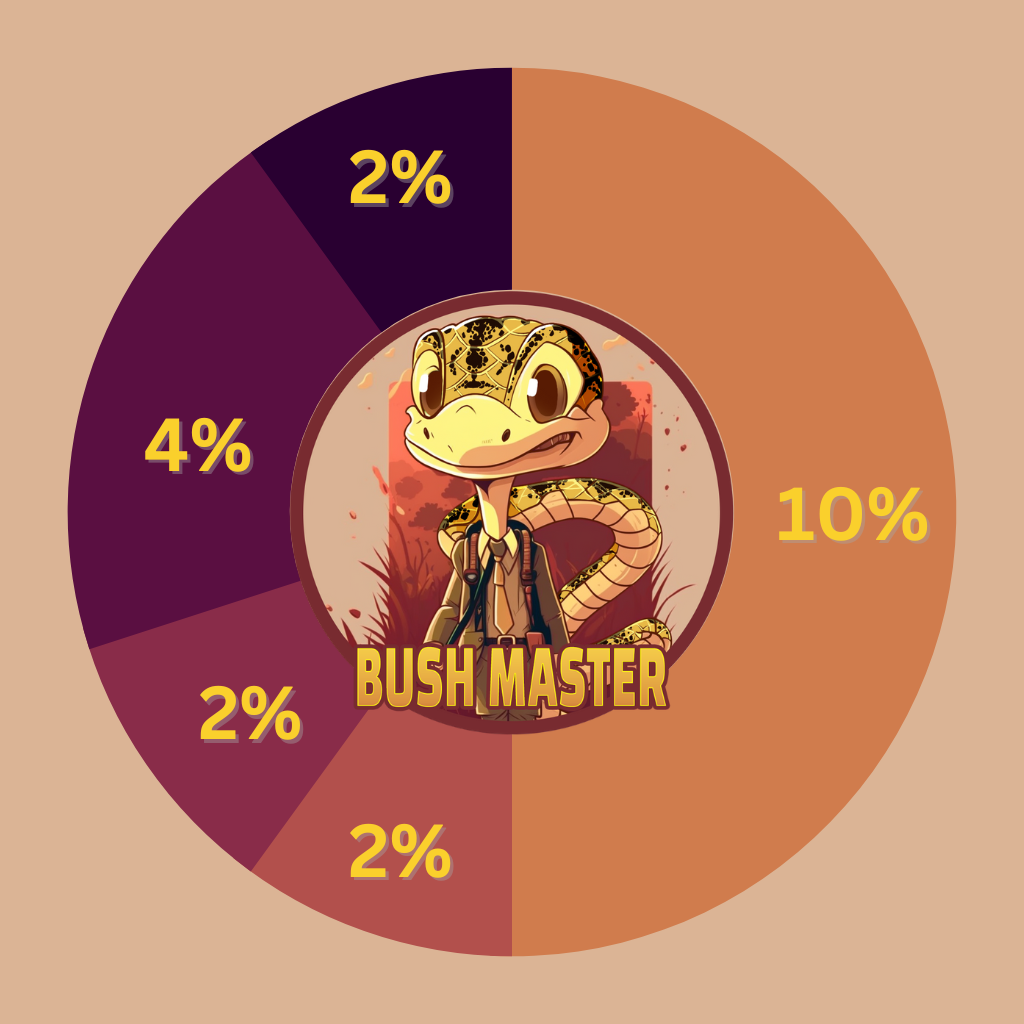
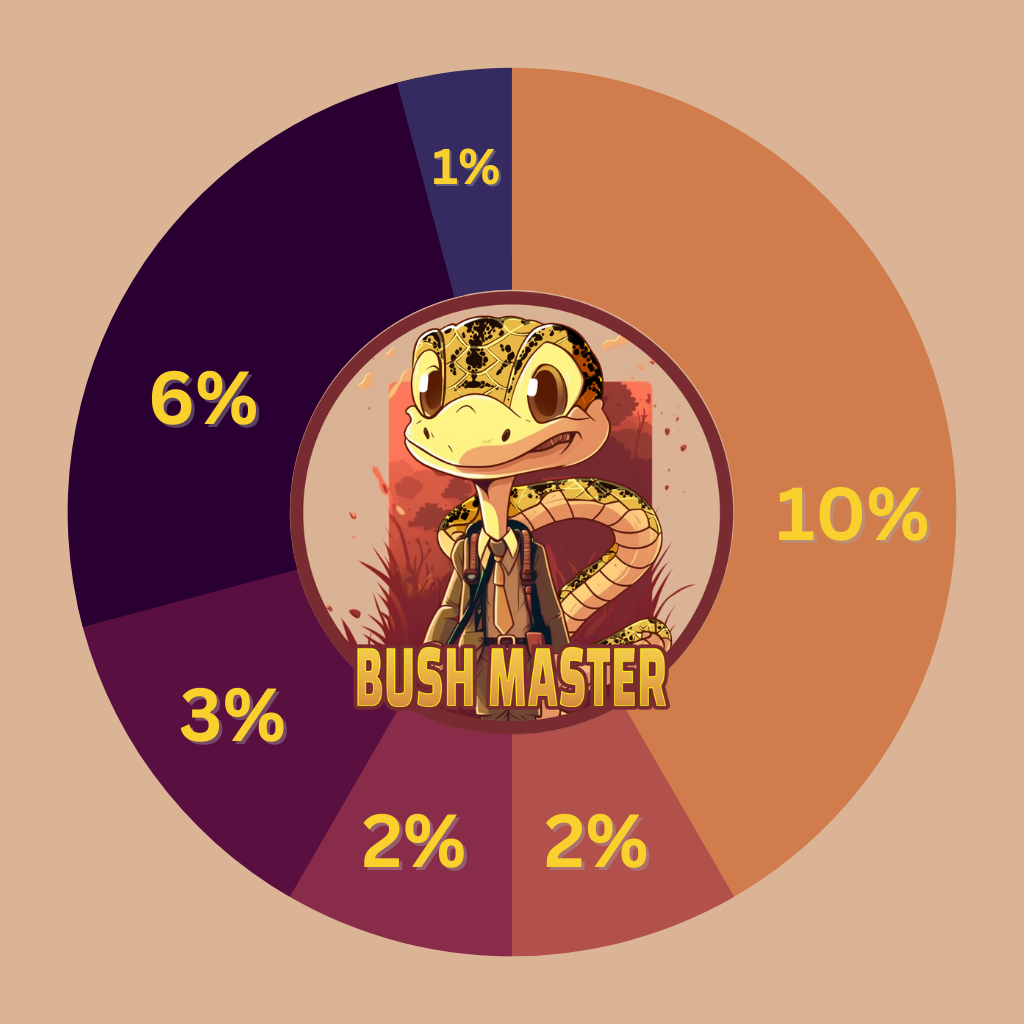
fix tokenomics

Changed region(s): [[0.0625, 0.1562, 0.7188, 0.9375], [0.3438, 0.0625, 0.5, 0.3125]]

diff --git a/index.html b/index.html
@@ -1175,8 +1175,8 @@
                                                                <ul>
                                                                   <li>
                                                                      <div class="item">
-                                                                        <h3 class="fn__gradient_title"><span class="prefix"></span><span class="fn_cs_counter" data-separator="" data-from="0" data-to="1" data-speed="2000" data-decimals="1">0</span><span class="suffix">B</span></h3>
-                                                                        <p>BUSHMASTER Tokens</p>
+                                                                        <h3 class="fn__gradient_title"><span class="prefix"></span><span class="fn_cs_counter" data-separator="" data-from="0" data-to="1" data-speed="2000" data-decimals="1">0</span><span class="suffix">%</span></h3>
+                                                                        <p>Liquidity stake from NFTs</p>
                                                                    
                                                                      </div>
                                                                   </li>
@@ -1198,15 +1198,15 @@
 
                                                                   <li>
                                                                      <div class="item">
-                                                                        <h3 class="fn__gradient_title"><span class="prefix"></span><span class="fn_cs_counter" data-separator="" data-from="0" data-to="2" data-speed="2000" data-decimals="1">0</span><span class="suffix">%</span></h3>
-                                                                        <p>BUSD Rewards of every transaction is redistributed to the holders for simply HODL-ing.</p>
+                                                                        <h3 class="fn__gradient_title"><span class="prefix"></span><span class="fn_cs_counter" data-separator="" data-from="0" data-to="6" data-speed="2000" data-decimals="1">0</span><span class="suffix">%</span></h3>
+                                                                        <p> Reflection in USDT </p>
                                                                         
                                                                      </div>
                                                                   </li>
 
                                                                   <li>
                                                                      <div class="item">
-                                                                        <h3 class="fn__gradient_title"><span class="prefix"></span><span class="fn_cs_counter" data-separator="" data-from="0" data-to="4" data-speed="2000" data-decimals="1">0</span><span class="suffix">%</span></h3>
+                                                                        <h3 class="fn__gradient_title"><span class="prefix"></span><span class="fn_cs_counter" data-separator="" data-from="0" data-to="3" data-speed="2000" data-decimals="1">0</span><span class="suffix">%</span></h3>
                                                                         <p>Marketing & Ecosystem Development</p>
                                                                       
                                                                      </div>
